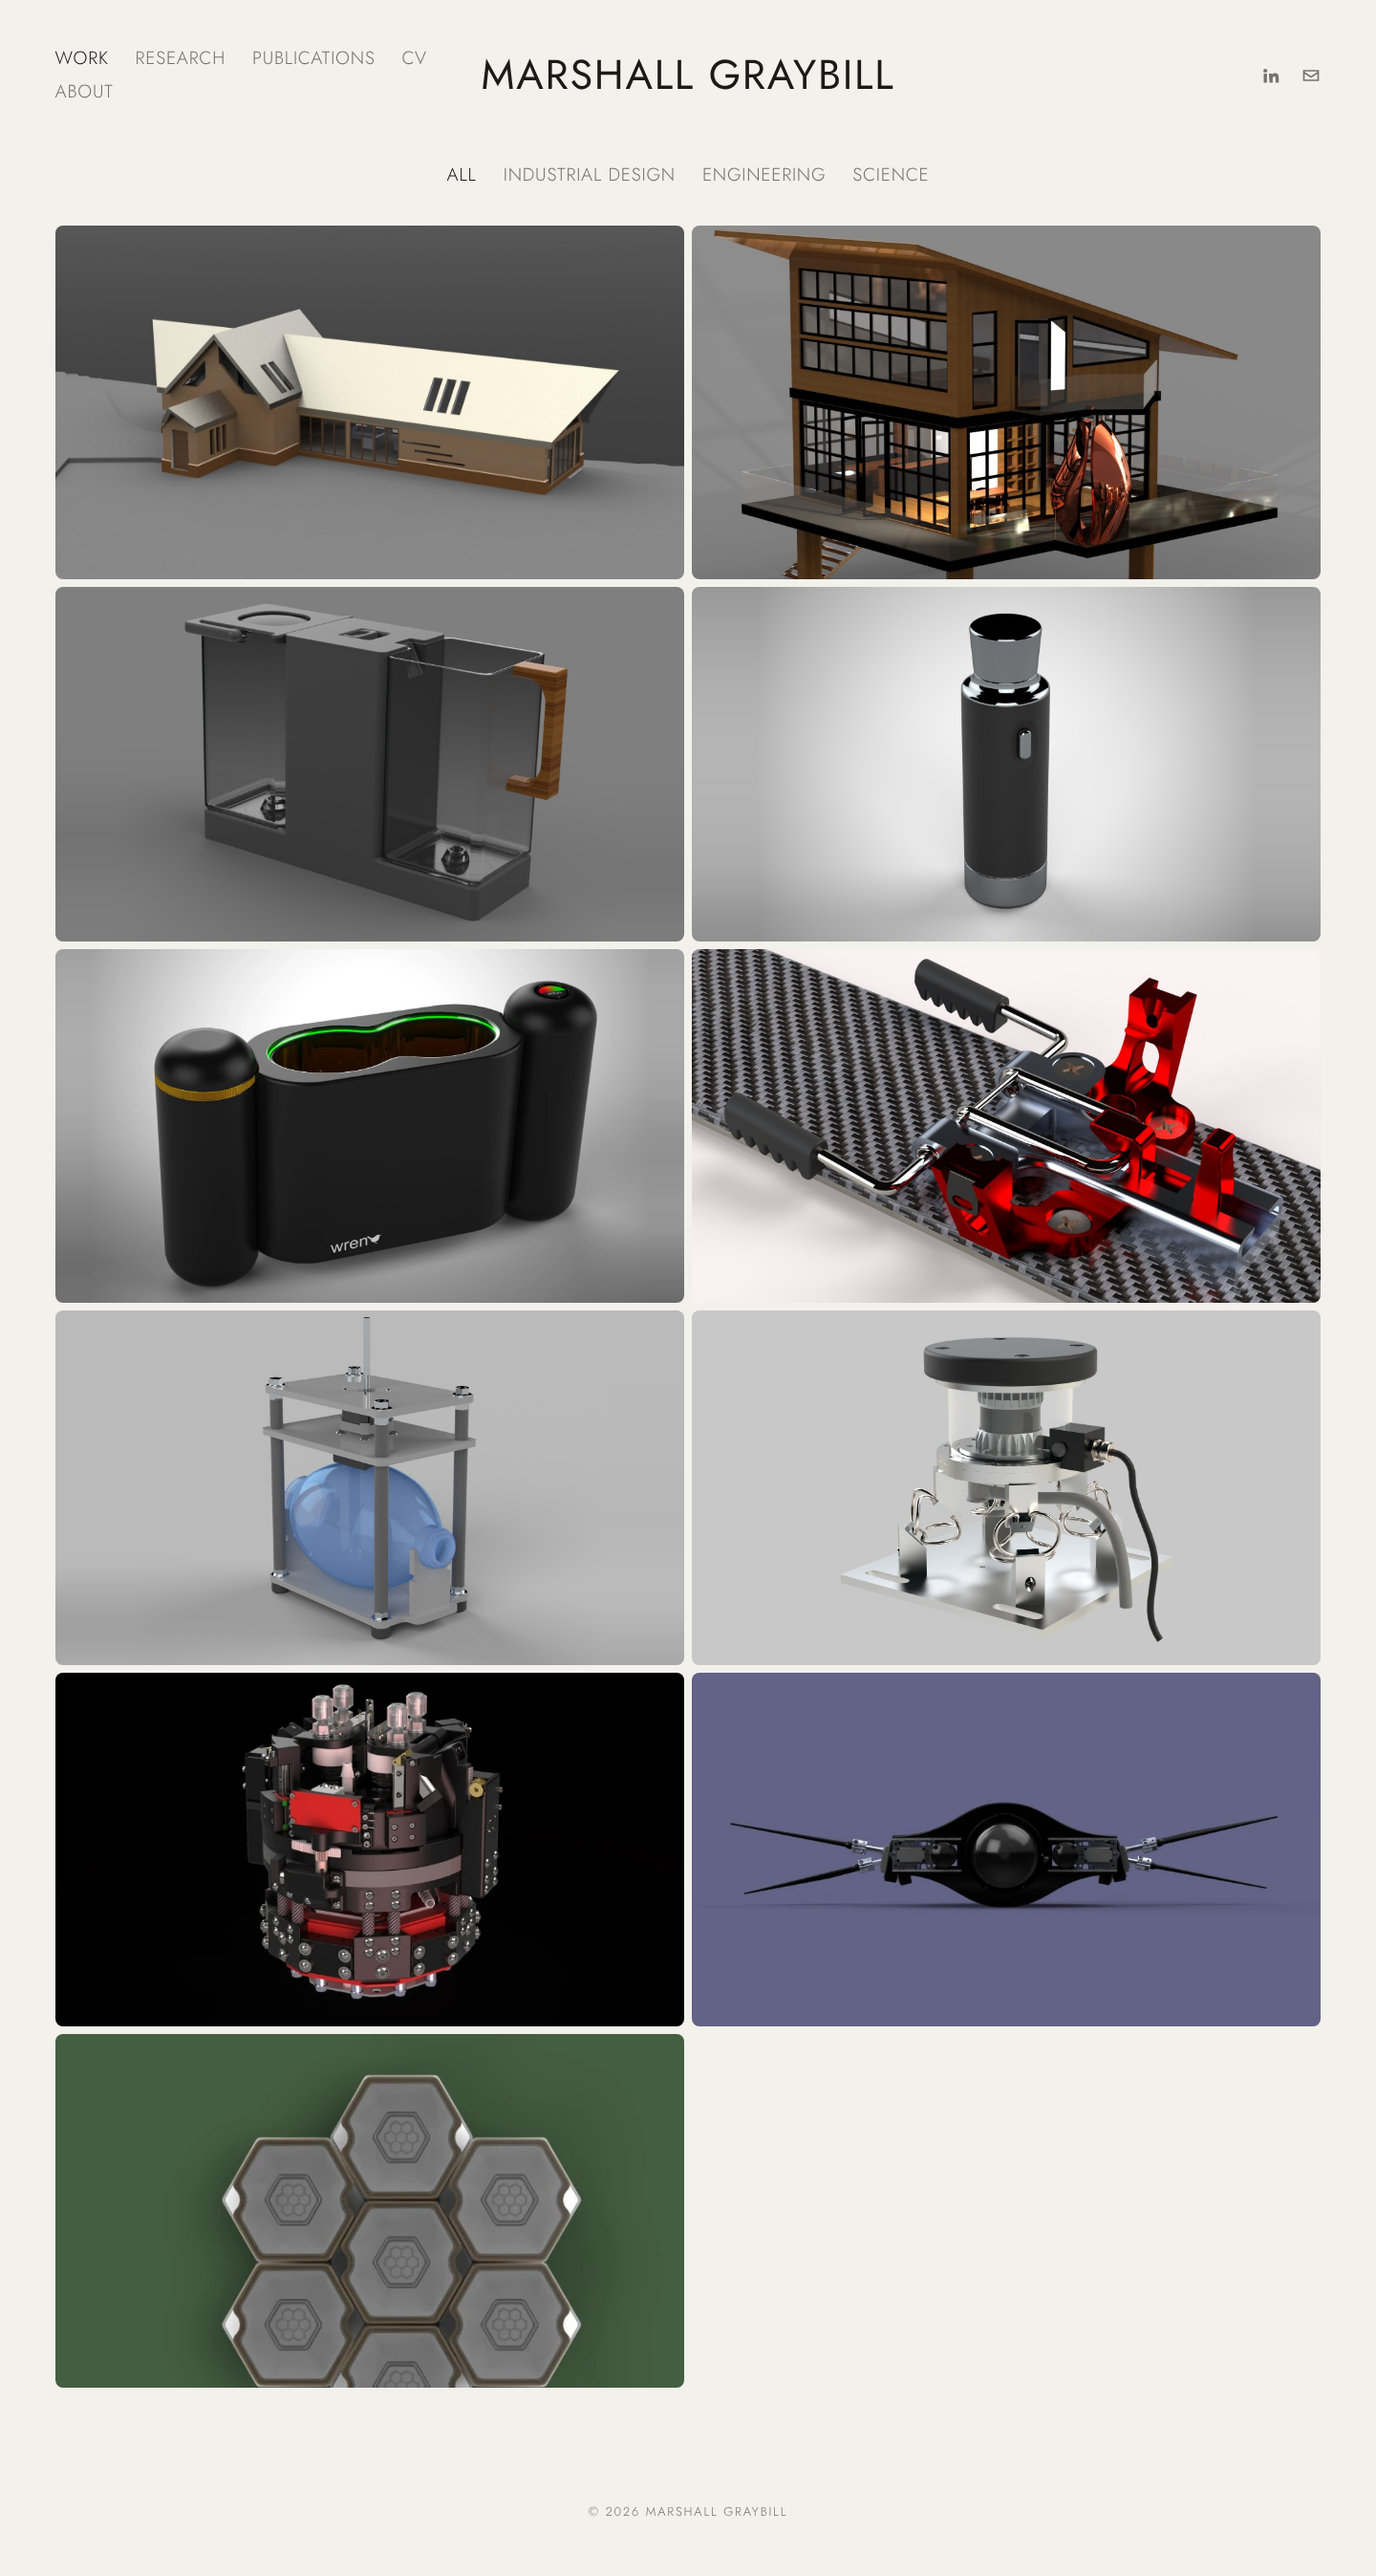
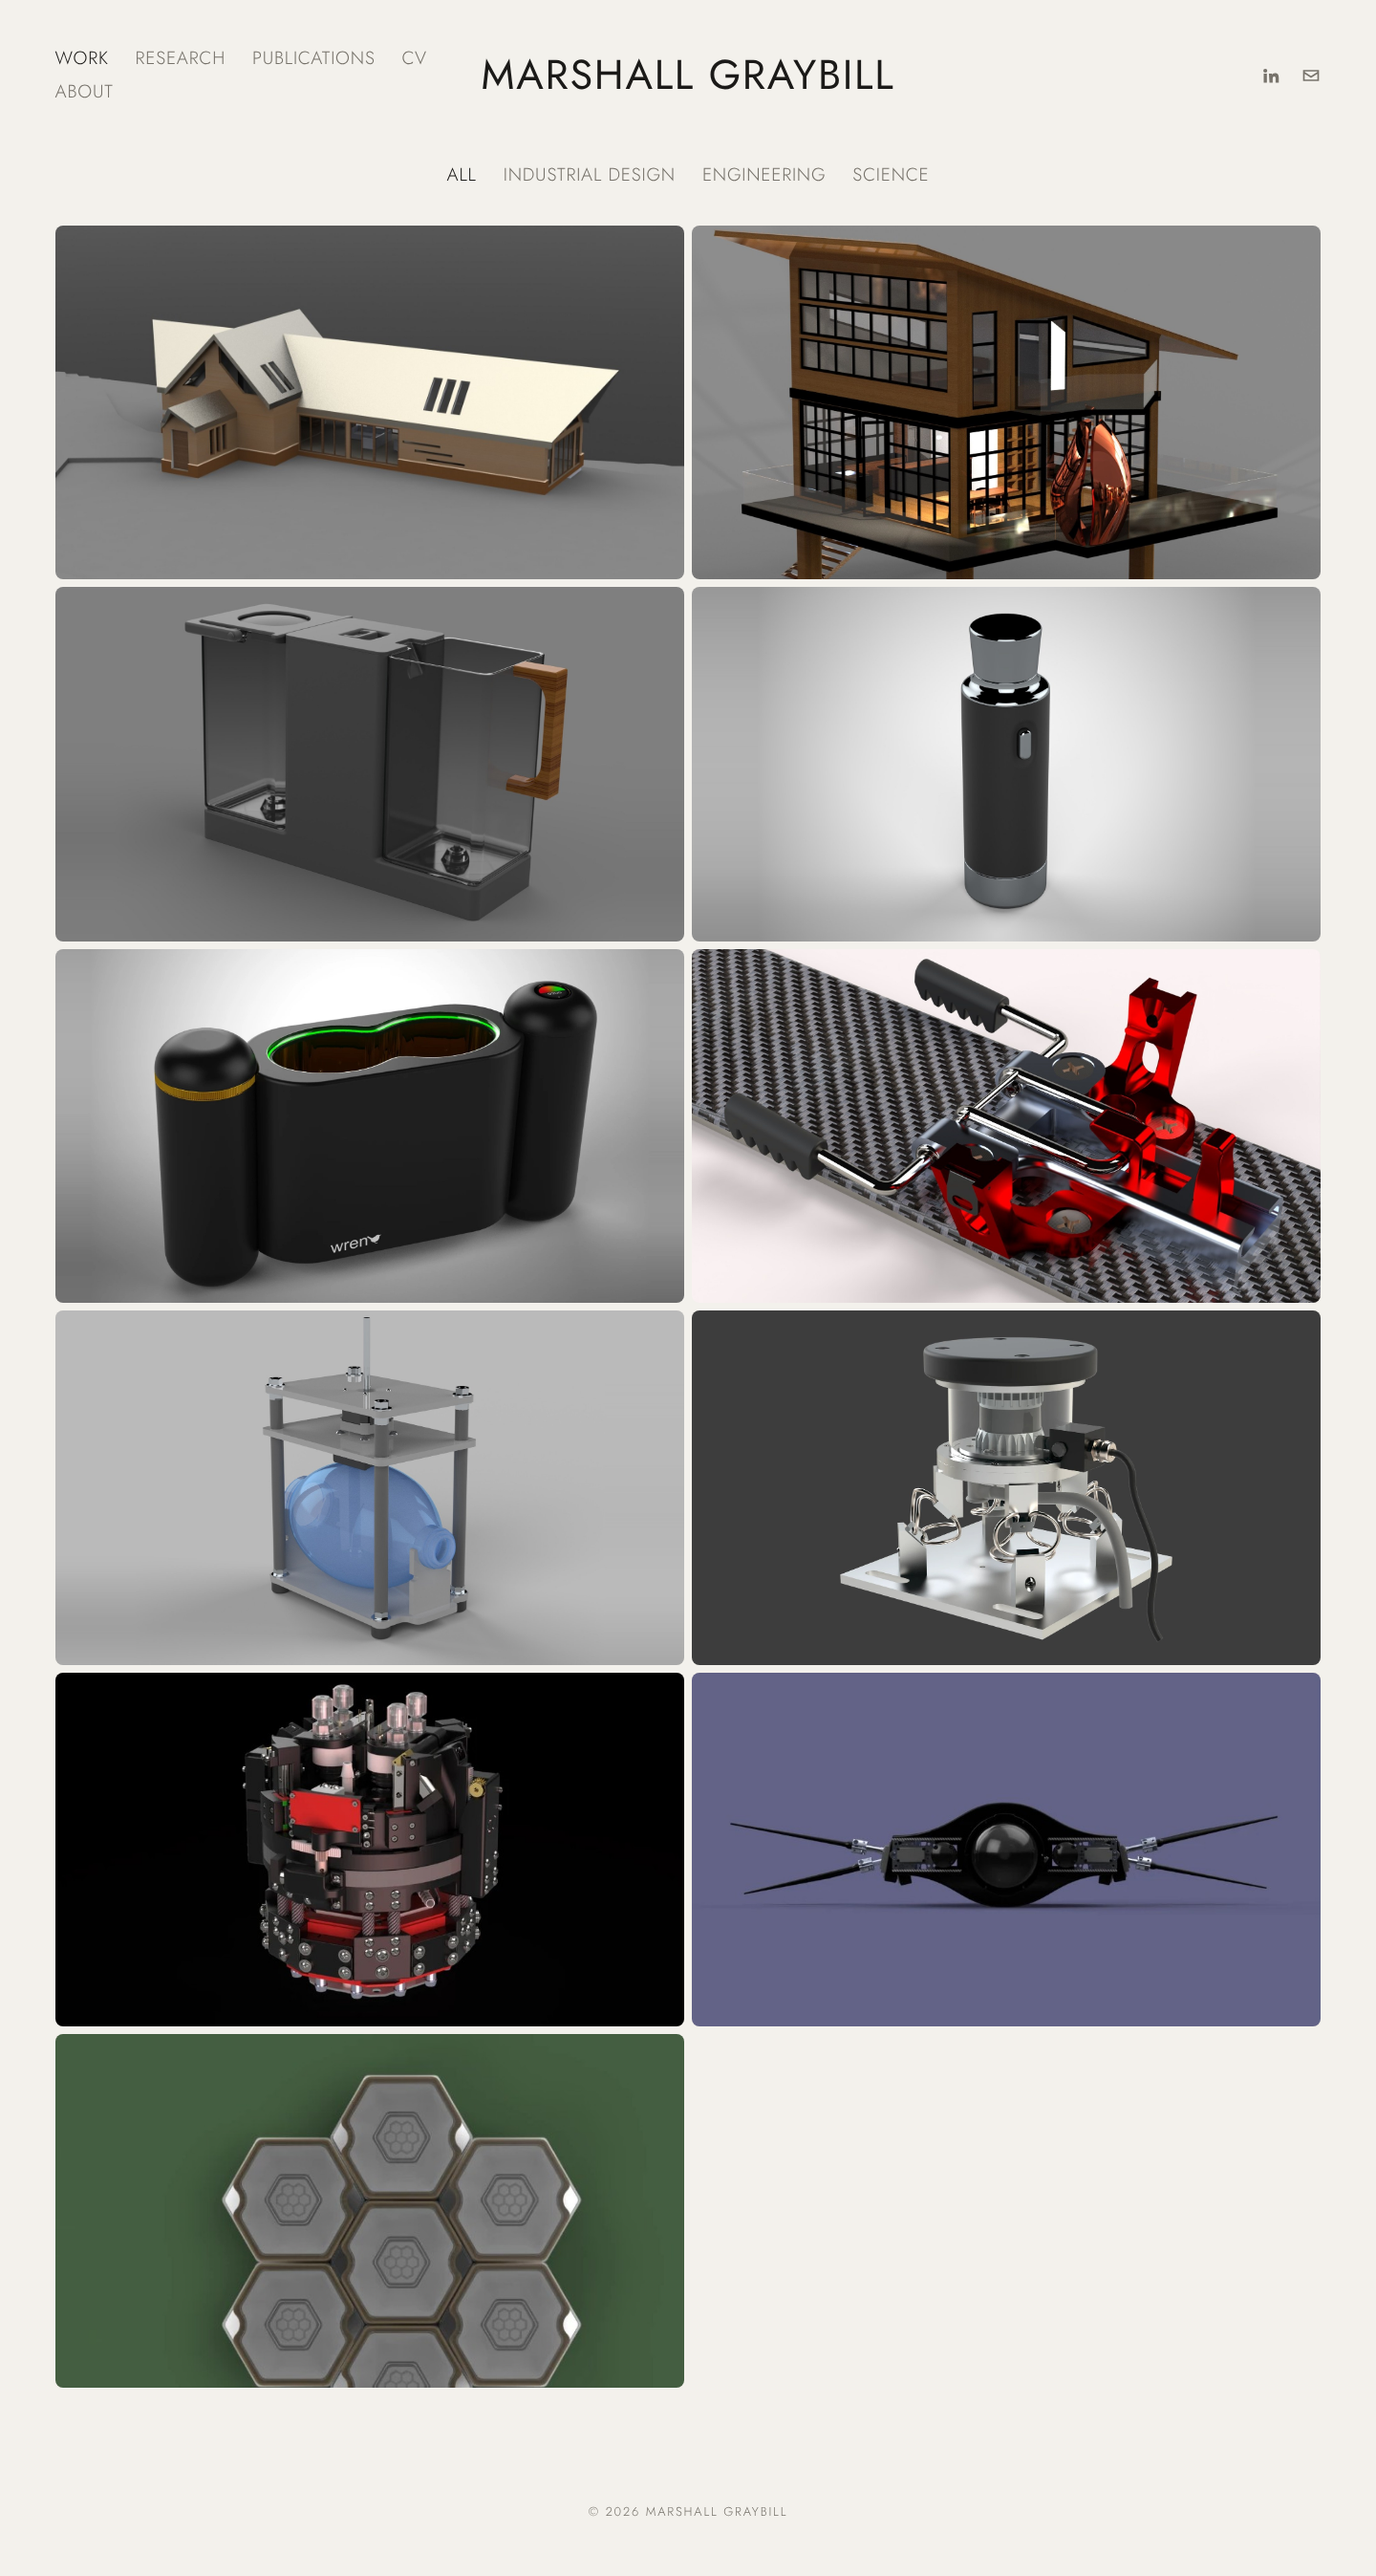
Trimble: charcoal panels to match the original site
Claude-Session: https://claude.ai/code/session_01FRyJPBebUtKmxdzujR9oGm

Changed region(s): [[0.5, 0.4987, 0.9688, 0.6545]]

diff --git a/css/style.css b/css/style.css
@@ -8,7 +8,7 @@
   --ink: #1b1a18;     /* main text */
   --dim: #77736b;     /* menu items, secondary text */
   --tile: #e4e1da;    /* shown behind images while they load */
-  --panel: #c8c8c8;   /* behind renders with transparent backgrounds (white: #fff) */
+  --panel: #3d3d3d;   /* behind renders with transparent backgrounds (white: #fff) */
   --radius: 8px;      /* rounded image corners */
   --gap: 8px;         /* space between grid tiles */
   --edge: clamp(16px, 4vw, 80px);  /* page side margins */
